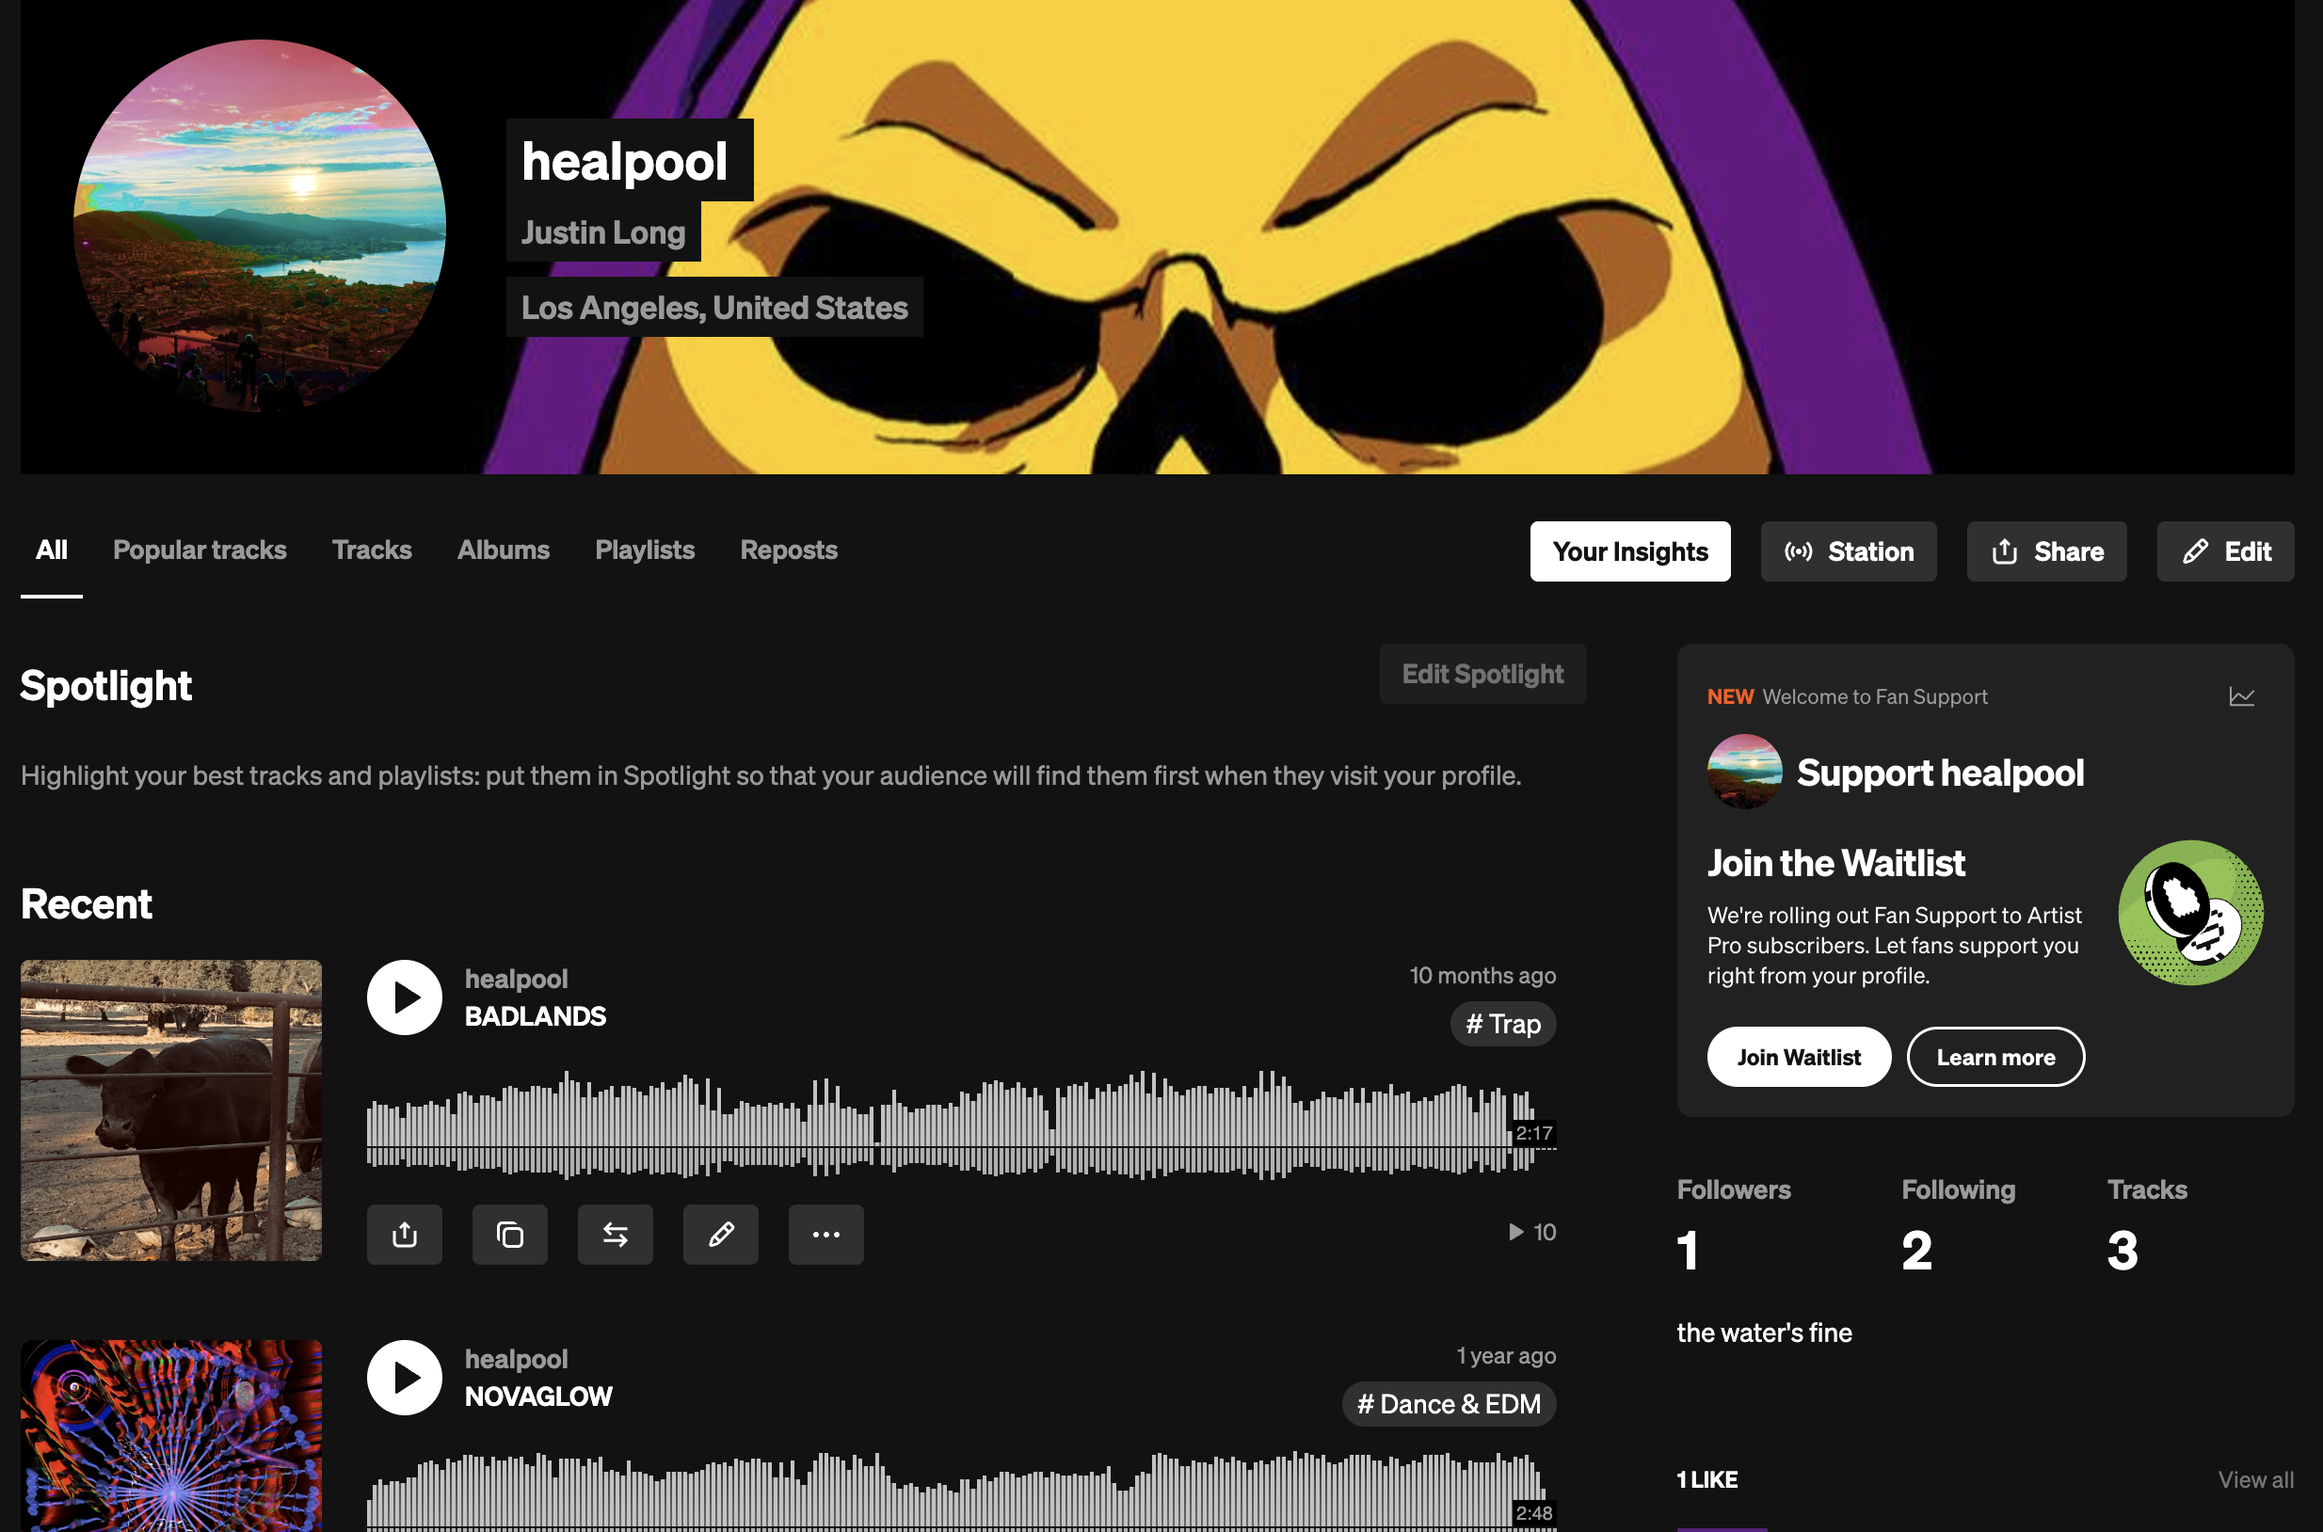
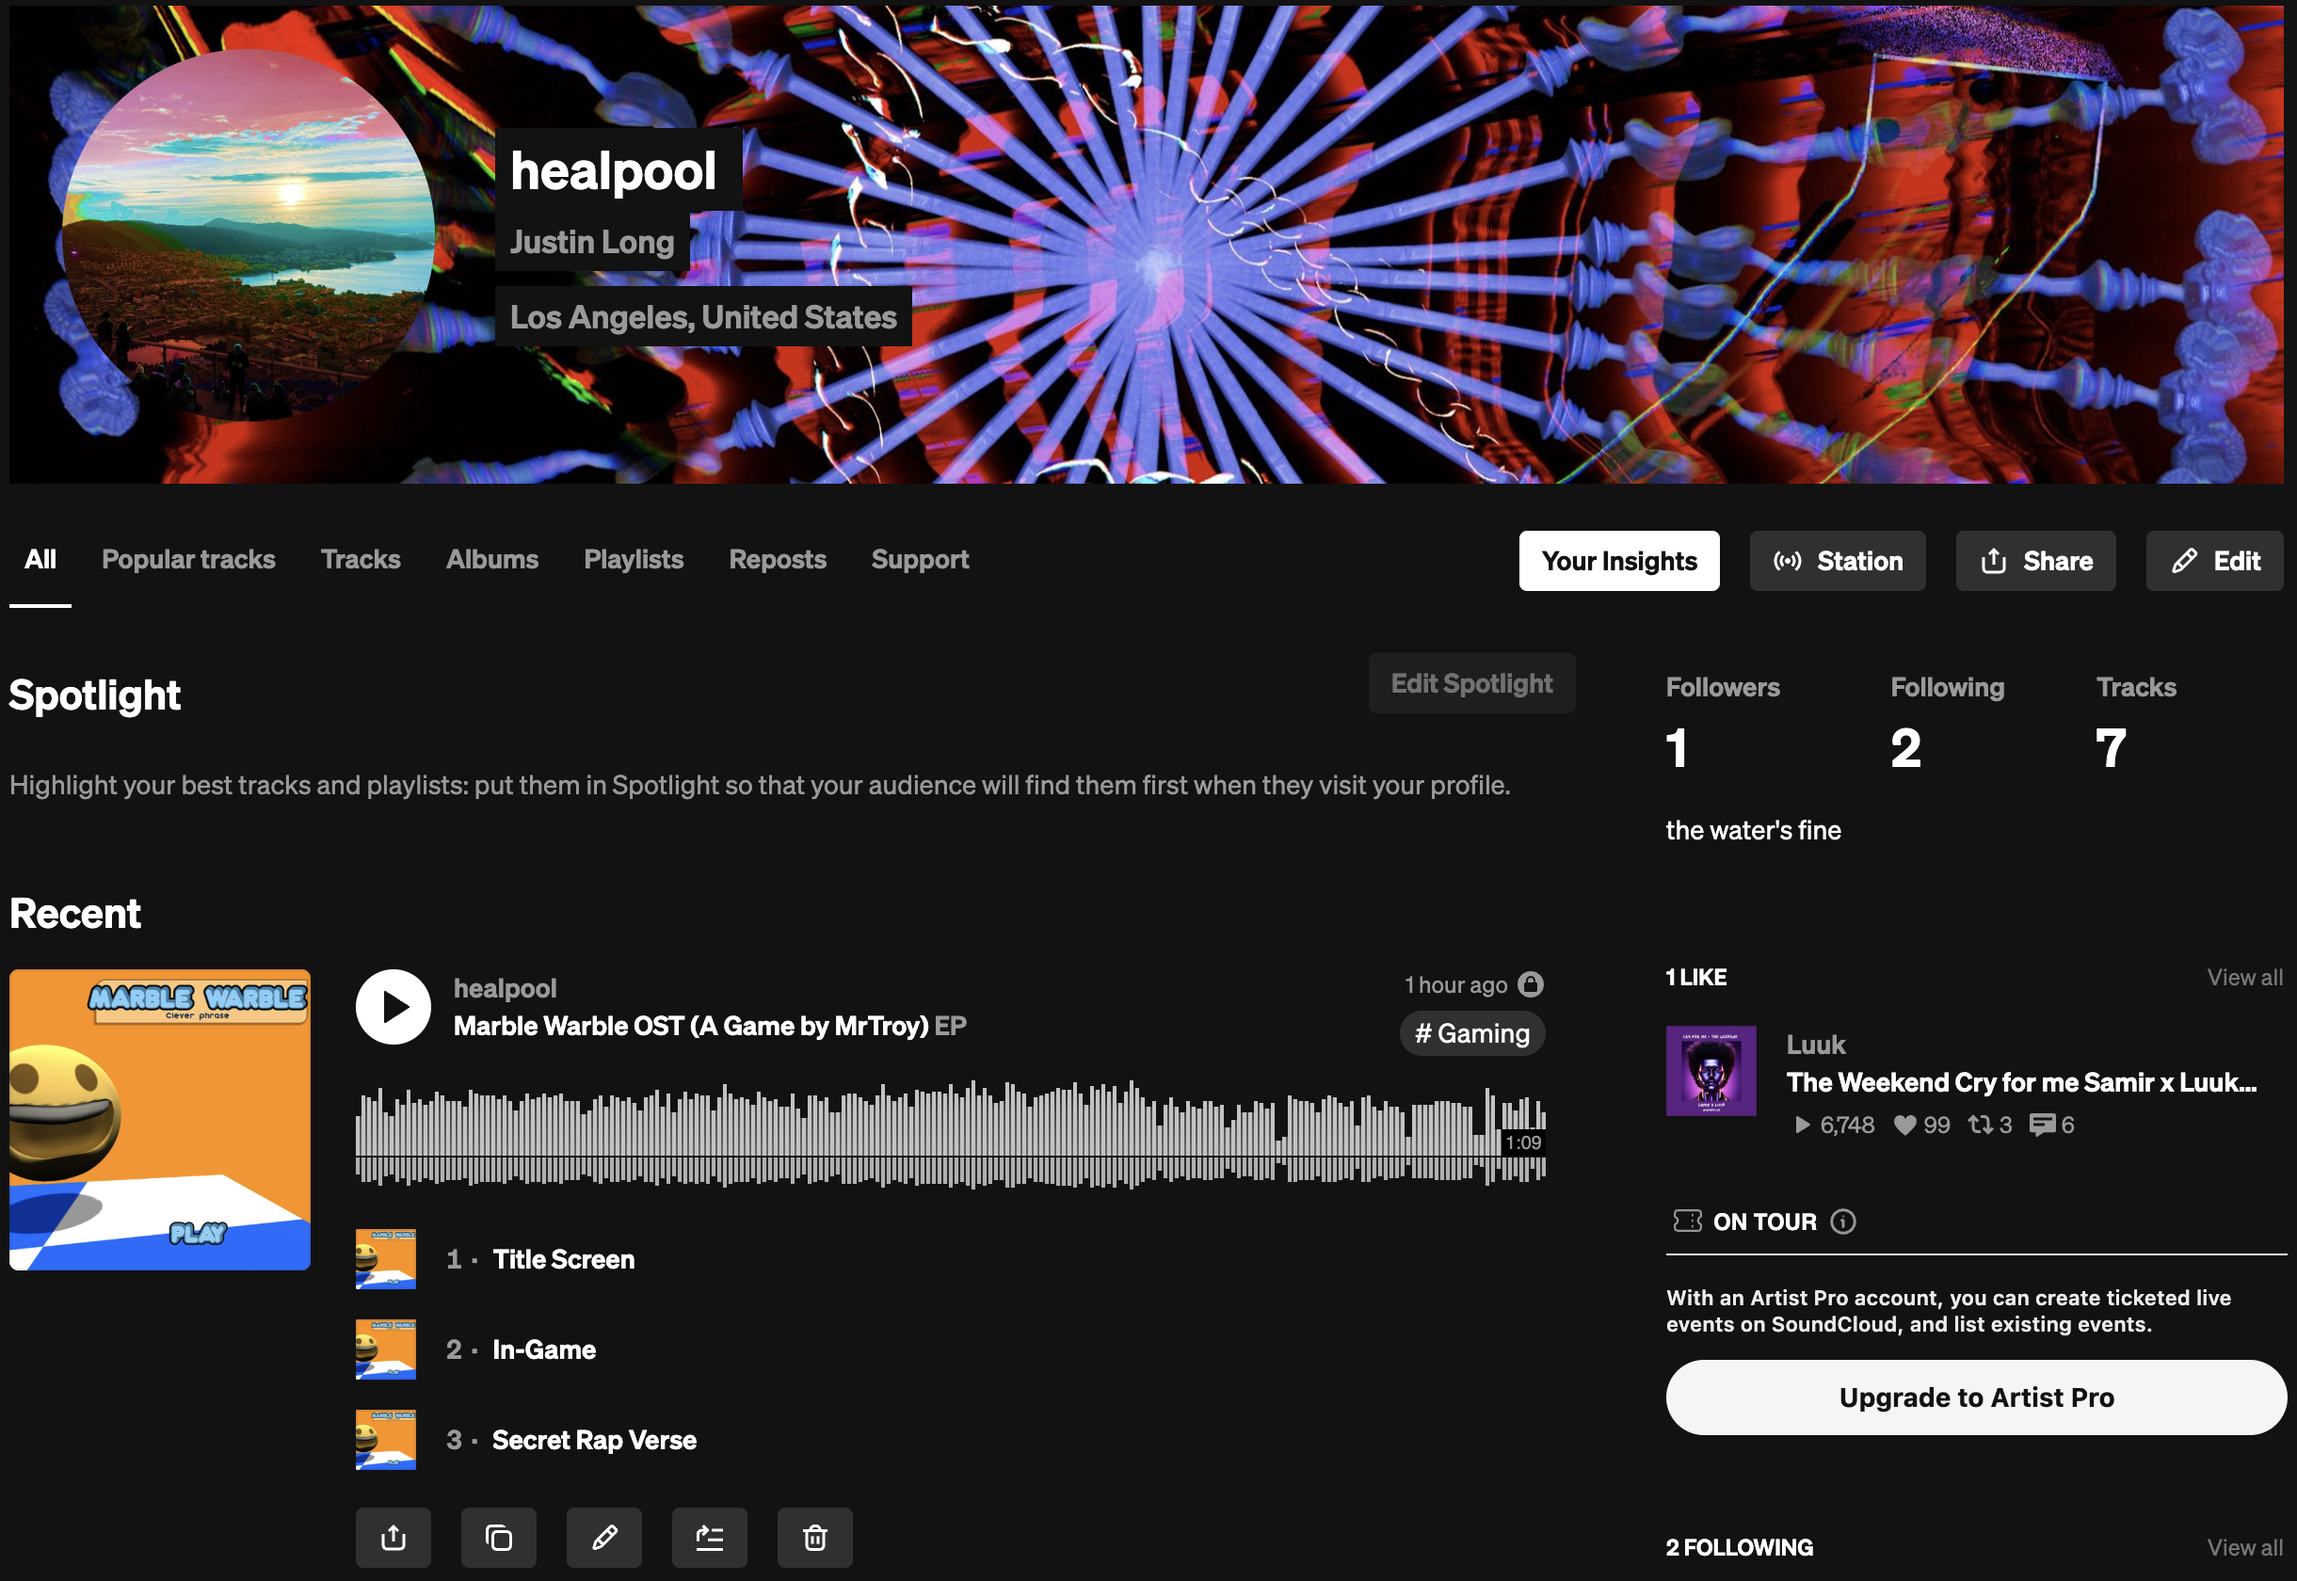
added music page

diff --git a/src/pages/AboutMe.jsx b/src/pages/AboutMe.jsx
@@ -1,8 +1,18 @@
-import { Link } from 'react-router-dom'
+import { useEffect } from 'react'
+import { Link, useLocation } from 'react-router-dom'
 import './AboutMe.css'
 import Header from '../components/Header'
 import Footer from '../components/Footer'
 import HobbyCard from '../components/HobbyCard'
+import SocialLink from '../components/SocialLink'
+
+const SOCIALS = [
+  { icon: 'fa-envelope',       href: 'mailto:justinlong5000@gmail.com',          label: 'justinlong5000@gmail.com', external: false },
+  { icon: 'brands fa-github',  href: 'https://github.com/jl-5',                  prefix: 'github.com/',    label: 'jl-5' },
+  { icon: 'brands fa-instagram', href: 'https://www.instagram.com/justin._.long', prefix: 'instagram.com/', label: 'justin._.long' },
+  { icon: 'brands fa-linkedin', href: 'https://www.linkedin.com/in/justinlong5000/', prefix: 'linkedin.com/', label: 'justinlong5000' },
+  { icon: 'brands fa-soundcloud', href: 'https://soundcloud.com/heal-pool',      prefix: 'soundcloud.com/', label: 'heal-pool' },
+]
 
 const HOBBIES = [
   {
@@ -36,6 +46,15 @@ const HOBBIES = [
 ]
 
 export default function AboutMe() {
+  const { hash } = useLocation()
+
+  // Scroll to section when navigating via hash (e.g. /about#contact)
+  useEffect(() => {
+    if (!hash) return
+    const el = document.getElementById(hash.slice(1))
+    if (el) el.scrollIntoView({ behavior: 'smooth' })
+  }, [hash])
+
   return (
     <>
       <Header />
@@ -76,7 +95,27 @@ export default function AboutMe() {
           </div>
         </div>
       </div>
-      <Footer />
+
+      <Footer>
+        <div id="footer" className="container">
+          <header className="major">
+            <h2>Let's get in touch!</h2>
+            <p>Reach out to me via email, or check out any of my other socials below.</p>
+          </header>
+          <div className="row">
+            <section className="col-6 col-12-narrower">
+              <div className="row gtr-0" style={{ display: 'flex', justifyContent: 'center' }}>
+                <ul className="divided icons col-6 col-12-mobile">
+                  {SOCIALS.slice(0, 3).map((s) => <SocialLink key={s.label} {...s} />)}
+                </ul>
+                <ul className="divided icons col-6 col-12-mobile">
+                  {SOCIALS.slice(3).map((s) => <SocialLink key={s.label} {...s} />)}
+                </ul>
+              </div>
+            </section>
+          </div>
+        </div>
+      </Footer>
     </>
   )
 }

diff --git a/src/components/Header.jsx b/src/components/Header.jsx
@@ -32,17 +32,6 @@ const NAV_ITEMS = [
         ],
       },
       {
-        label: 'Music',
-        to: '/projects#music',
-        children: [
-          { label: 'Latest release: dropdead (healpool remix)',   href: 'https://soundcloud.com/heal-pool/drop-dead-healpool-remix?si=9d6e16e7513b4ebd996059e985bacc26&utm_source=clipboard&utm_medium=text&utm_campaign=social_sharing' },
-          { label: 'Marble Warble Soundtrack',    href: 'https://soundcloud.com/heal-pool/sets/marble-warble-ost-a-game-by' },
-          { label: 'Spin Doctor (produced OST)',    href: 'https://udonknight.itch.io/spin-doctor' },
-          { label: 'SONOdream (produced OST/SFX)',    href: 'https://justinlong5000.itch.io/sonodream' },
-          { label: 'SoundCloud',    href: 'https://soundcloud.com/heal-pool' },
-        ],
-      },
-      {
         label: 'Art',
         to: '/projects#art',
         children: [
@@ -52,9 +41,9 @@ const NAV_ITEMS = [
       },
     ],
   },
-  { label: 'Resume',   to: '/resume' },
-  { label: 'About Me', to: '/about', className: 'break' },
-  { label: 'Contact',  to: '/contact' },
+  { label: 'Music',    to: '/music' },
+  { label: 'Resume',   to: '/resume', className: 'break' },
+  { label: 'About Me', to: '/about' },
 ]
 
 export default function Header() {
@@ -150,7 +139,7 @@ export default function Header() {
             <p>
               Nice to meet you! Check out my work using the tabs
               <br />
-              above, and let's <Link to="/contact">get in touch</Link> if you like what you see.
+              above, and let's <Link to="/about#footer">get in touch</Link> if you like what you see.
             </p>
             <ul className="actions">
               <li><Link to="/about" className="button">You're Just_in Time!</Link></li>
@@ -185,7 +174,7 @@ export default function Header() {
               <a href="https://soundcloud.com/heal-pool" className="link indent-2" target="_blank" rel="noopener noreferrer">healpool Music</a>
               <Link to="/resume" className="link depth-0" onClick={() => setNavOpen(false)}>Resume</Link>
               <Link to="/about" className="link depth-0" onClick={() => setNavOpen(false)}>About Me</Link>
-              <Link to="/contact" className="link depth-0" onClick={() => setNavOpen(false)}>Contact</Link>
+              <Link to="/music" className="link depth-0" onClick={() => setNavOpen(false)}>Music</Link>
             </nav>
           </div>
         </>,

diff --git a/src/pages/Music.jsx b/src/pages/Music.jsx
@@ -1,0 +1,44 @@
+import { useEffect } from 'react'
+import '../pages/Projects.css'
+import Header from '../components/Header'
+import Footer from '../components/Footer'
+import ProjectCard from '../components/ProjectCard'
+import tracks from '../data/music.json'
+
+export default function Music() {
+  // Card fade-in on scroll
+  useEffect(() => {
+    const cards = document.querySelectorAll('.project-card')
+    const observer = new IntersectionObserver(
+      (entries) => entries.forEach((e) => { if (e.isIntersecting) e.target.classList.add('visible') }),
+      { threshold: 0.1 }
+    )
+    cards.forEach((c) => observer.observe(c))
+    return () => observer.disconnect()
+  }, [])
+
+  return (
+    <>
+      <Header />
+      <div className="wrapper">
+        <div className="container" id="main">
+          <article id="content">
+            <header>
+              <h2>Music</h2>
+              <p>
+                Original electronic music and video game soundtracks, produced under the healpool alias.
+              </p>
+            </header>
+
+            <div className="project-grid">
+              {tracks.map((track) => (
+                <ProjectCard key={track.title} project={track} />
+              ))}
+            </div>
+          </article>
+        </div>
+      </div>
+      <Footer />
+    </>
+  )
+}

diff --git a/src/App.jsx b/src/App.jsx
@@ -1,9 +1,9 @@
-import { BrowserRouter, Routes, Route } from 'react-router-dom'
+import { BrowserRouter, Routes, Route, Navigate } from 'react-router-dom'
 import Home from './pages/Home'
 import AboutMe from './pages/AboutMe'
 import Resume from './pages/Resume'
-import Contact from './pages/Contact'
 import Projects from './pages/Projects'
+import Music from './pages/Music'
 
 export default function App() {
   return (
@@ -12,9 +12,10 @@ export default function App() {
         <Routes>
           <Route path="/" element={<Home />} />
           <Route path="/projects" element={<Projects />} />
+          <Route path="/music" element={<Music />} />
           <Route path="/resume" element={<Resume />} />
           <Route path="/about" element={<AboutMe />} />
-          <Route path="/contact" element={<Contact />} />
+          <Route path="/contact" element={<Navigate to="/about#footer" replace />} />
         </Routes>
       </div>
     </BrowserRouter>

diff --git a/src/components/ProjectCard.css b/src/components/ProjectCard.css
@@ -36,6 +36,7 @@
 .project-card-icon.websites { background: #4a90d9; }
 .project-card-icon.games    { background: #e07b54; }
 .project-card-icon.art      { background: #7b68c8; }
+.project-card-icon.music    { background: #2dafab; }
 
 .project-card-body {
   padding: 1.4em 1.5em 1.5em;
@@ -60,3 +61,4 @@
 .project-tag.websites { background: #4a90d9; }
 .project-tag.games    { background: #e07b54; }
 .project-tag.art      { background: #7b68c8; }
+.project-tag.music    { background: #2dafab; }

diff --git a/src/components/ProjectCard.jsx b/src/components/ProjectCard.jsx
@@ -1,10 +1,11 @@
 import './ProjectCard.css'
 
-const CATEGORY_LABELS = { websites: 'Website', games: 'Game', art: 'Art' }
+const CATEGORY_LABELS = { websites: 'Website', games: 'Game', art: 'Art', music: 'Music' }
 const CATEGORY_OVERLAY = {
   websites: 'rgba(74, 144, 217, 0.72)',
   games:    'rgba(224, 123, 84, 0.72)',
   art:      'rgba(123, 104, 200, 0.72)',
+  music:    'rgba(45, 175, 155, 0.72)',
 }
 
 export default function ProjectCard({ project }) {
